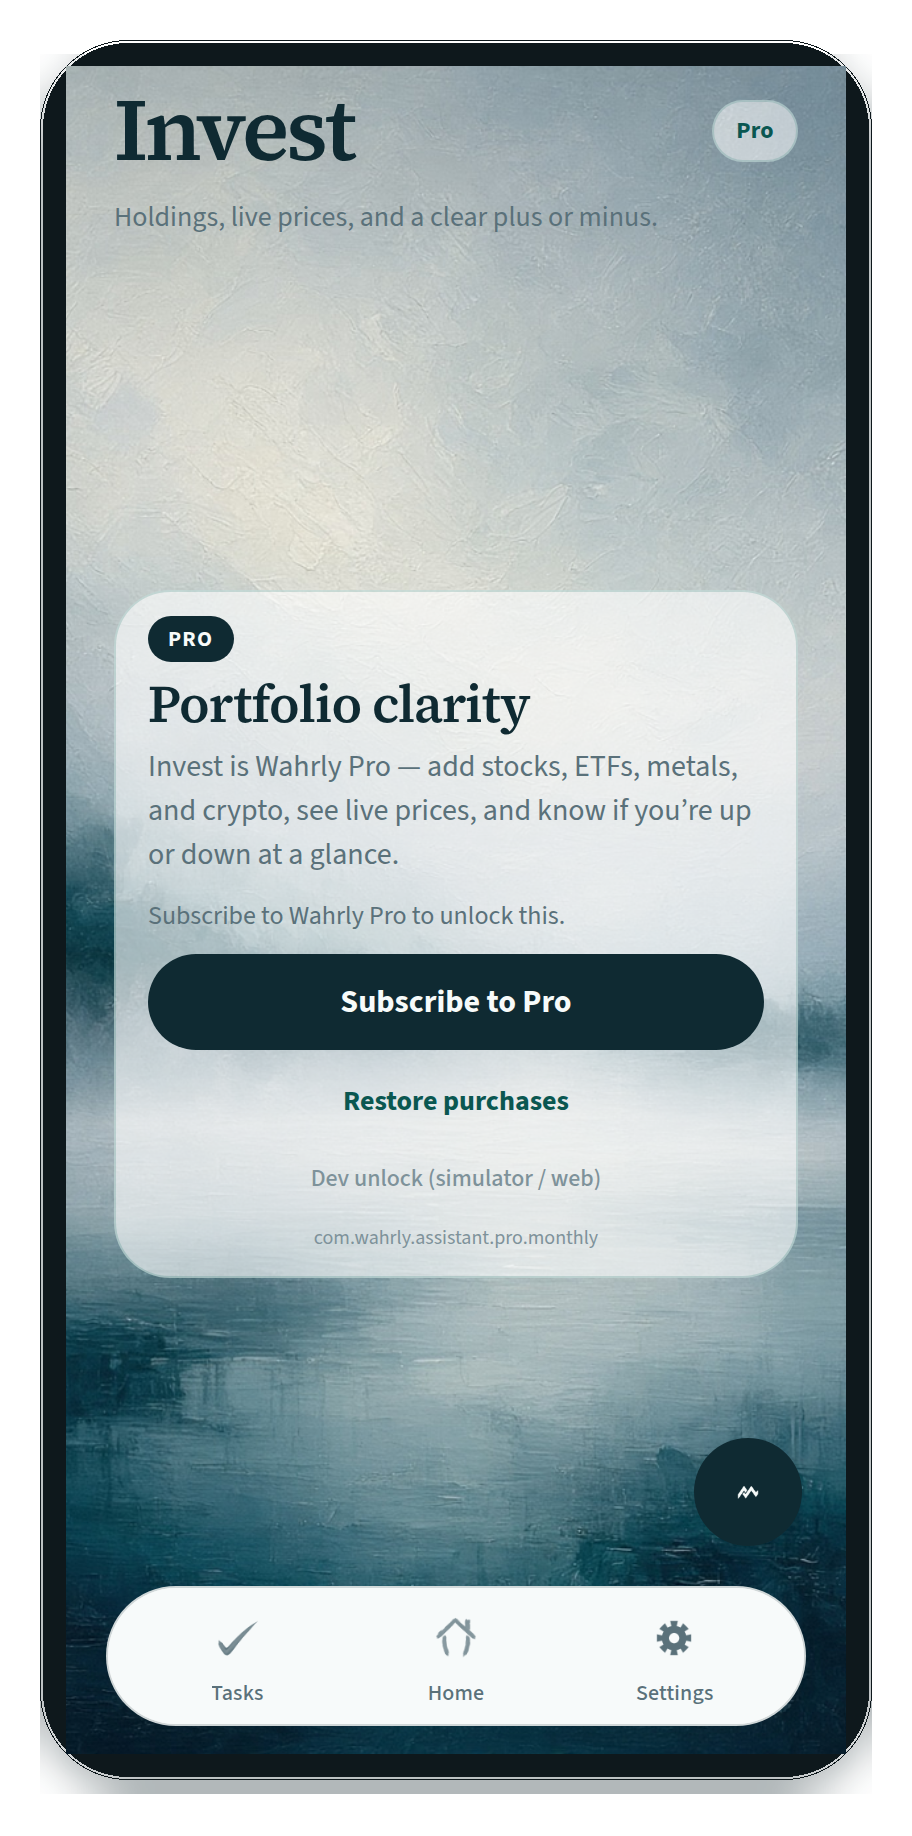
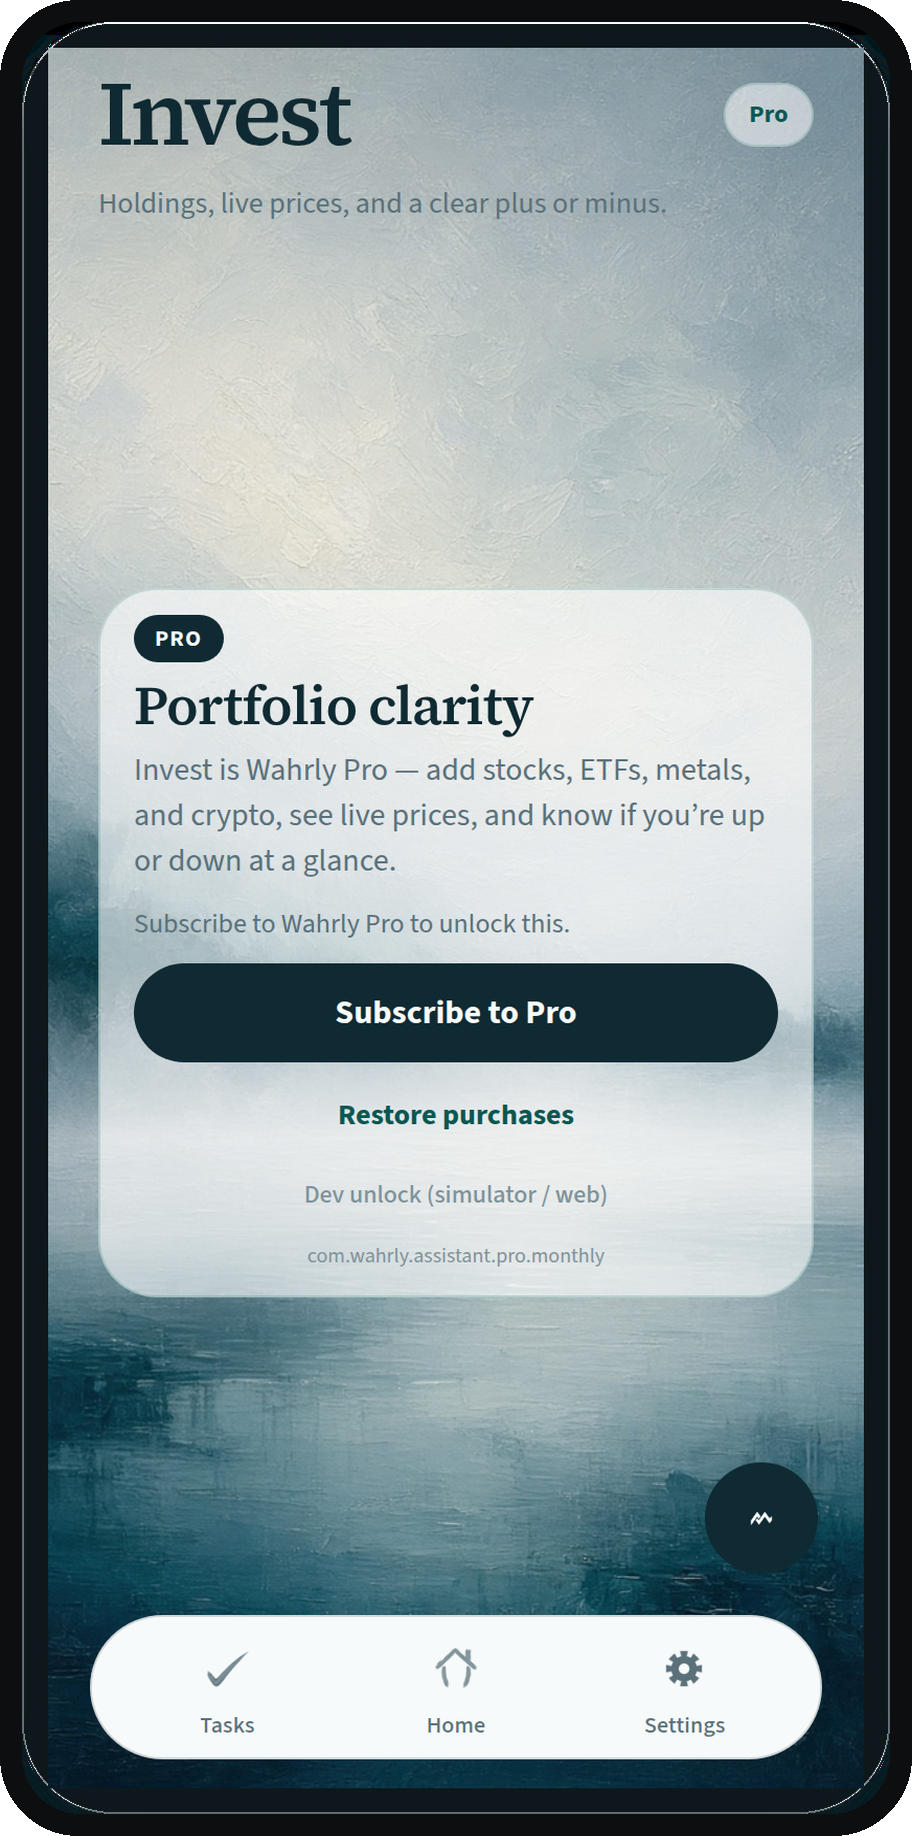
Thin phone bezels on landing device mockups
Rebuild framed screens with ~22px bezel (was ~41px) so the
product reads cleaner on mobile and desktop.

diff --git a/nova/public-site/index.html b/nova/public-site/index.html
@@ -18,7 +18,7 @@
       href="https://fonts.googleapis.com/css2?family=Fraunces:opsz,wght@9..144,480;9..144,600&family=Outfit:wght@300;400;500;600&display=swap"
       rel="stylesheet"
     />
-    <link rel="stylesheet" href="./styles.css?v=all-features" />
+    <link rel="stylesheet" href="./styles.css?v=thin-bezel" />
   </head>
   <body>
     <div class="grain" aria-hidden="true"></div>
@@ -288,6 +288,6 @@
       </div>
     </footer>
 
-    <script src="./motion.js?v=all-features" defer></script>
+    <script src="./motion.js?v=thin-bezel" defer></script>
   </body>
 </html>
